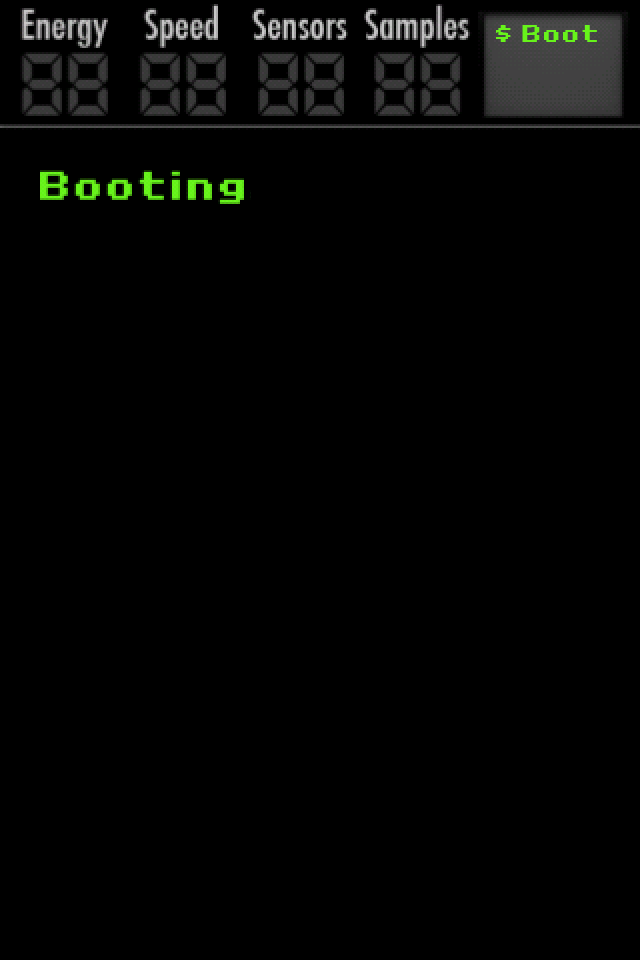
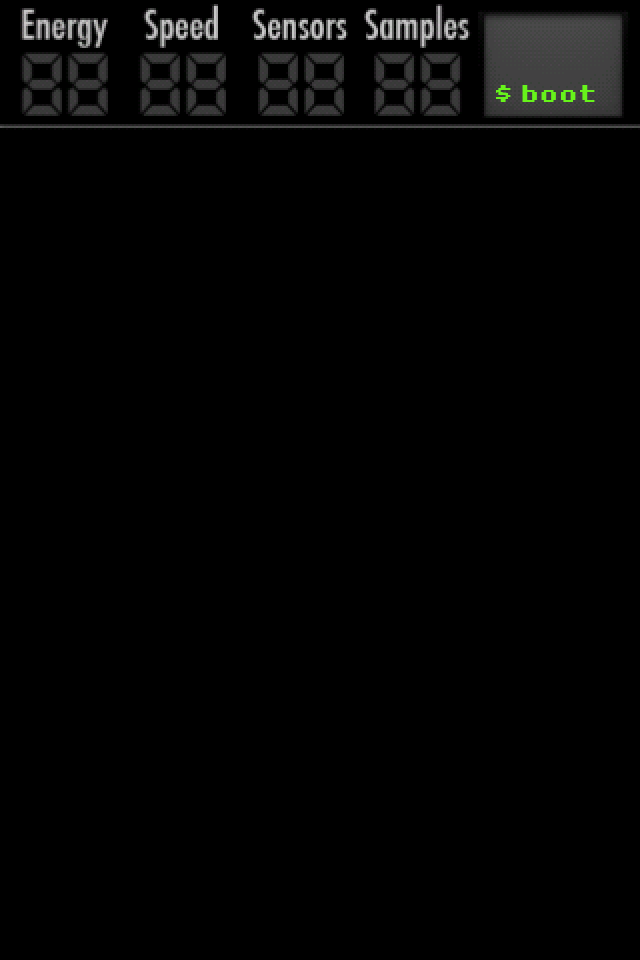
touch on mapview works. trying to figure our how to launch menu.

Changed region(s): [[0.0625, 0.1562, 0.4062, 0.2188], [0.7812, 0.0, 0.9375, 0.0625], [0.7812, 0.0938, 0.9375, 0.125]]

diff --git a/Classes/Views/MapScene.m b/Classes/Views/MapScene.m
@@ -23,6 +23,11 @@
 - (CGPoint)getPointFromObjectProperties:(NSDictionary*)dict;
 - (CGPoint)toTileCoords:(CGPoint)point;
 - (void)centerTileMapOnPoint:(CGPoint)_point;
+- (CGPoint)locationFromTouch:(UITouch*)touch;
+- (CGPoint)locationFromTouches:(NSSet*)touches;
+- (BOOL)isInMenuRect:(CGPoint)_point;
+- (void)showMenu;
+- (void)terminal;
 
 @end
 
@@ -40,6 +45,8 @@
 @synthesize startSite;
 @synthesize sensorSites;
 @synthesize sampleSites;
+@synthesize menuRect;
+@synthesize menu;
 @synthesize tileMap;
 @synthesize mapLayer;
 @synthesize terrainLayer;
@@ -148,6 +155,28 @@
 	[tileMap runAction:move];
 }
 
+//-----------------------------------------------------------------------------------------------------------------------------------
+- (CGPoint)locationFromTouch:(UITouch*)touch {
+	CGPoint touchLocation = [touch locationInView:[touch view]];
+	return [[CCDirector sharedDirector] convertToGL:touchLocation];
+}
+
+//-----------------------------------------------------------------------------------------------------------------------------------
+- (CGPoint)locationFromTouches:(NSSet*)touches {
+	return [self locationFromTouch:[touches anyObject]];
+}
+
+//-----------------------------------------------------------------------------------------------------------------------------------
+- (BOOL)isInMenuRect:(CGPoint)_point {
+    BOOL isInRect = NO;
+    CGFloat xDelta = _point.x - self.menuRect.origin.x;
+    CGFloat yDelta = _point.y - self.menuRect.origin.y;
+    if (xDelta < self.menuRect.size.width && yDelta < self.menuRect.size.height && xDelta > 0 && yDelta > 0) {
+        isInRect = YES;
+    }
+    return isInRect;    
+}
+ 
 //===================================================================================================================================
 #pragma mark MapScene
 
@@ -162,8 +191,10 @@
 //-----------------------------------------------------------------------------------------------------------------------------------
 - (id)init {
 	if((self=[super init])) {
+        self.isTouchEnabled = YES;
 		CGSize screenSize = [[CCDirector sharedDirector] winSize];
-		self.screenCenter = CGPointMake(screenSize.width / 2, screenSize.height / 2);
+        self.menuRect = CGRectMake(0.75*screenSize.width, 0.88*screenSize.height, 0.21*screenSize.width, 0.1*screenSize.height);
+		self.screenCenter = CGPointMake(screenSize.width/2, screenSize.height/2);
         self.seeker1 = [SeekerSprite create];
         self.statusDisplay = [StatusDisplay create];
         self.sensorSites = [NSMutableArray arrayWithCapacity:10];
@@ -183,6 +214,18 @@
             [self setSeekerStartPosition];
         }
 	}
+}
+
+//-----------------------------------------------------------------------------------------------------------------------------------
+-(void) ccTouchesBegan:(NSSet *)touches withEvent:(UIEvent *)event {
+	CGPoint touchLocation = [self locationFromTouches:touches]; 
+    if ([self isInMenuRect:touchLocation]) {
+        [self addChild:self.menu];
+    }
+}    
+
+//-----------------------------------------------------------------------------------------------------------------------------------
+- (void)terminal {
 }
 
 @end

diff --git a/Classes/Views/BootScene.m b/Classes/Views/BootScene.m
@@ -45,7 +45,7 @@
 
 //-----------------------------------------------------------------------------------------------------------------------------------
 - (void)insertBootingLabel {
-    self.bootingLabel = [CCLabel labelWithString:@"Booting." fontName:@"Retroville NC" fontSize:20];
+    self.bootingLabel = [CCLabel labelWithString:@"Booting" fontName:@"Retroville NC" fontSize:20];
     self.bootingLabel.position = CGPointMake(20.0f, 376.0f);
     self.bootingLabel.anchorPoint = CGPointMake(0.0f, 0.0f);
     self.bootingLabel.color = ccc3(103,243,27);
@@ -138,15 +138,15 @@
     if (self.counter > kSTARTUP_TICKS) {
         [[CCDirector sharedDirector] replaceScene: [MenuScene scene]];
     } else if (self.counter == kBOOT_TICK_1) {
-        [self.bootingLabel setString:@"Booting.."];
+        [self.bootingLabel setString:@"Booting."];
     } else if (self.counter == kBOOT_TICK_2) {
-        [self.bootingLabel setString:@"Booting..."];
+        [self.bootingLabel setString:@"Booting.."];
     } else if (self.counter == kBOOT_TICK_3) {
-        [self.bootingLabel setString:@"Booting...."];
+        [self.bootingLabel setString:@"Booting..."];
     } else if (self.counter == kBOOT_TICK_4) {
-        [self.bootingLabel setString:@"Booting....."];
+        [self.bootingLabel setString:@"Booting...."];
     } else if (self.counter == kBOOT_TICK_5) {
-        [self.bootingLabel setString:@"Booting......"];
+        [self.bootingLabel setString:@"Booting....."];
     } else if (self.counter == kBOOT_TICK_6) {
         [self.bootingLabel removeFromParentAndCleanup:YES];
         [self.statusDisplay setTest:EnergyDisplayType];

diff --git a/Classes/Views/MapScene.h b/Classes/Views/MapScene.h
@@ -42,6 +42,8 @@ typedef enum tagMapID {
     NSMutableDictionary* startSite;
     NSMutableArray* sensorSites;
     NSMutableArray* sampleSites;
+    CGRect menuRect;
+    CCMenu* menu;
     CGPoint screenCenter;
     CCTMXTiledMap* tileMap;
     CCTMXLayer* mapLayer;
@@ -60,6 +62,8 @@ typedef enum tagMapID {
 @property (nonatomic, assign) NSInteger speed;
 @property (nonatomic, retain) NSMutableArray* sensorSites;
 @property (nonatomic, retain) NSMutableArray* sampleSites;
+@property (nonatomic, assign) CGRect menuRect;
+@property (nonatomic, retain) CCMenu* menu;
 @property (nonatomic, assign) CGPoint screenCenter;
 @property (nonatomic, retain) CCTMXTiledMap* tileMap;
 @property (nonatomic, retain) CCTMXLayer* mapLayer;
